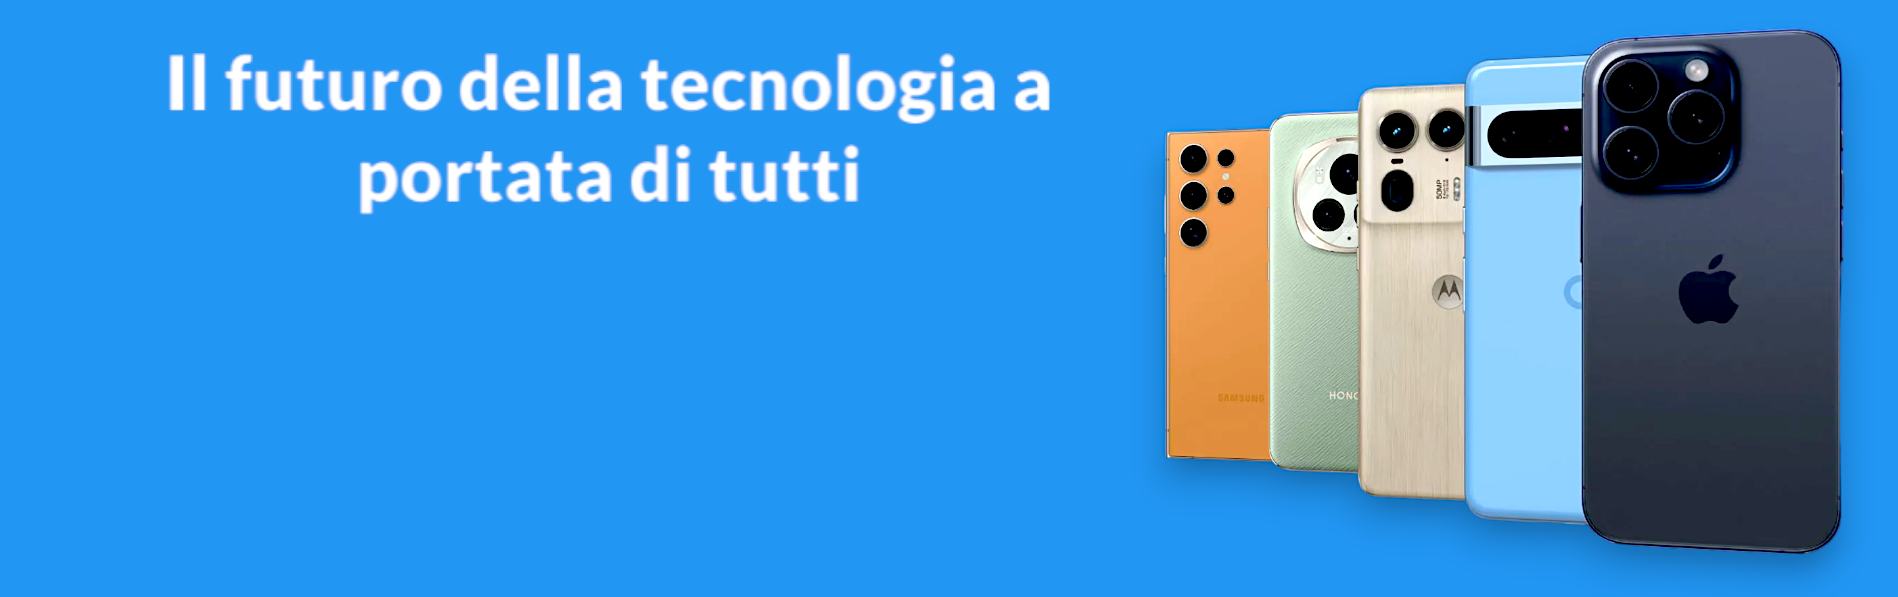
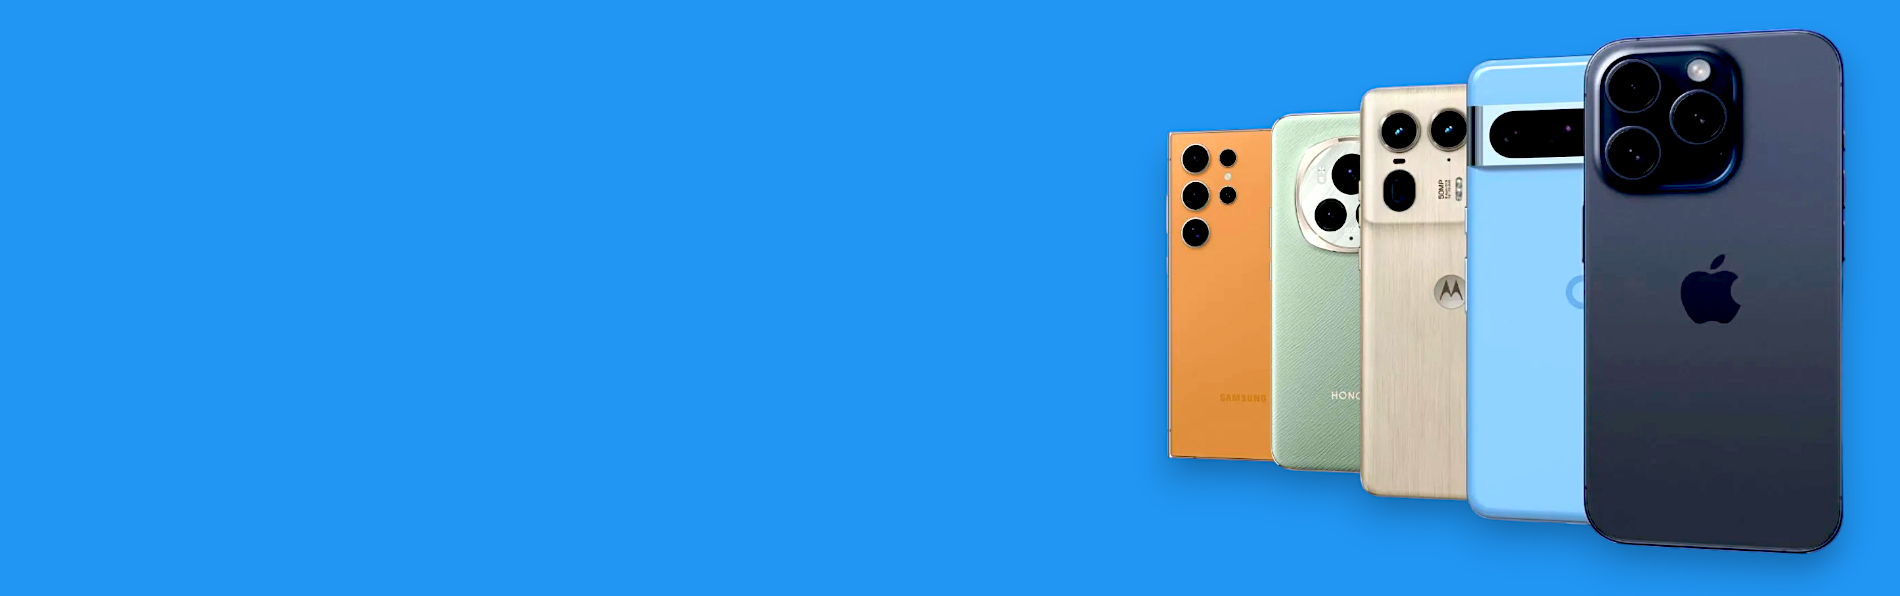
added login style

diff --git a/src/pages/Login.jsx b/src/pages/Login.jsx
@@ -67,21 +67,23 @@ const Login = () => {
                     </div>
                 )
             }
-            <select value={role} onChange={handleChangeRole}>
-                <option value="user">User</option>
-                <option value="seller">Seller</option>
-            </select>
-            <form onSubmit={handleLogin}>
-                <div>
-                    <input type="email" name="email" value={form.email} onInput={handleInput} />
-                </div>
-                <div>
-                    <input type="password" name="password" value={form.password} onInput={handleInput} />
-                </div>
-                <div>
-                    <button type="submit">Login</button>
-                </div>
-            </form>
+            <div className="mx-auto px-4 flex flex-col place-items-center mt-56">
+                <select className="font-lato w-64 font-extrabold bg-[#1e90ff] rounded text-white right-2/4" value={role} onChange={handleChangeRole}>
+                    <option className="text-[#1e90ff] bg-white" value="seller">Seller</option>
+                    <option className="text-[#1e90ff] bg-white" value="user">User</option>
+                </select>
+                <form className="flex flex-col w-64 right-2/4 h-64 place-items-center justify-center gap-4 rounded font-lato font-extrabold bg-[#1e90ff] rounded border-gray-200 border-2" onSubmit={handleLogin}>
+                    <div>
+                        <input className="px-2" type="email" name="email" value={form.email} onInput={handleInput} placeholder="E-mail" />
+                    </div>
+                    <div>
+                        <input className="px-2" type="password" name="password" value={form.password} onInput={handleInput} placeholder="Password" />
+                    </div>
+                    <div className="border-gray-200 border-2 rounded text-gray-200">
+                        <button type="submit" className="px-5 py-2 hover:border-3 hover:text-lg hover:text-[#1e90ff] hover:bg-white text-white">Login</button>
+                    </div>
+                </form>
+            </div>
         </>
     )
 }

diff --git a/src/pages/Home.jsx b/src/pages/Home.jsx
@@ -5,9 +5,10 @@ const Home = () => {
   const products = getAllProducts();
   return (
     <>
-      <div className="w-full h-misura-header-picture bg-cover bg-no-repeat bg-header-picture-2">
+      <div className=" relative w-full h-misura-header-picture bg-cover bg-no-repeat bg-header-picture-2">
+        <h1 className="mx-auto px-4 text-6xl text-center text-white font-lato font-extrabold absolute top-1/4 right-2/4 leading-tight">Il futuro della tecnologia a<br />portata di tutti</h1>
         <div className="w-full h-full flex flex-col justify-center items-center">
-          <button className="absolute left-1/3 bg-violet-200 hover:bg-violet-300 font-lato font-bold rounded-md px-7 py-3">
+          <button className="absolute right-[70%] bottom-1/4 bg-violet-200 hover:bg-violet-300 font-lato font-bold rounded-md px-7 py-3">
             Shop Now
           </button>
         </div>
